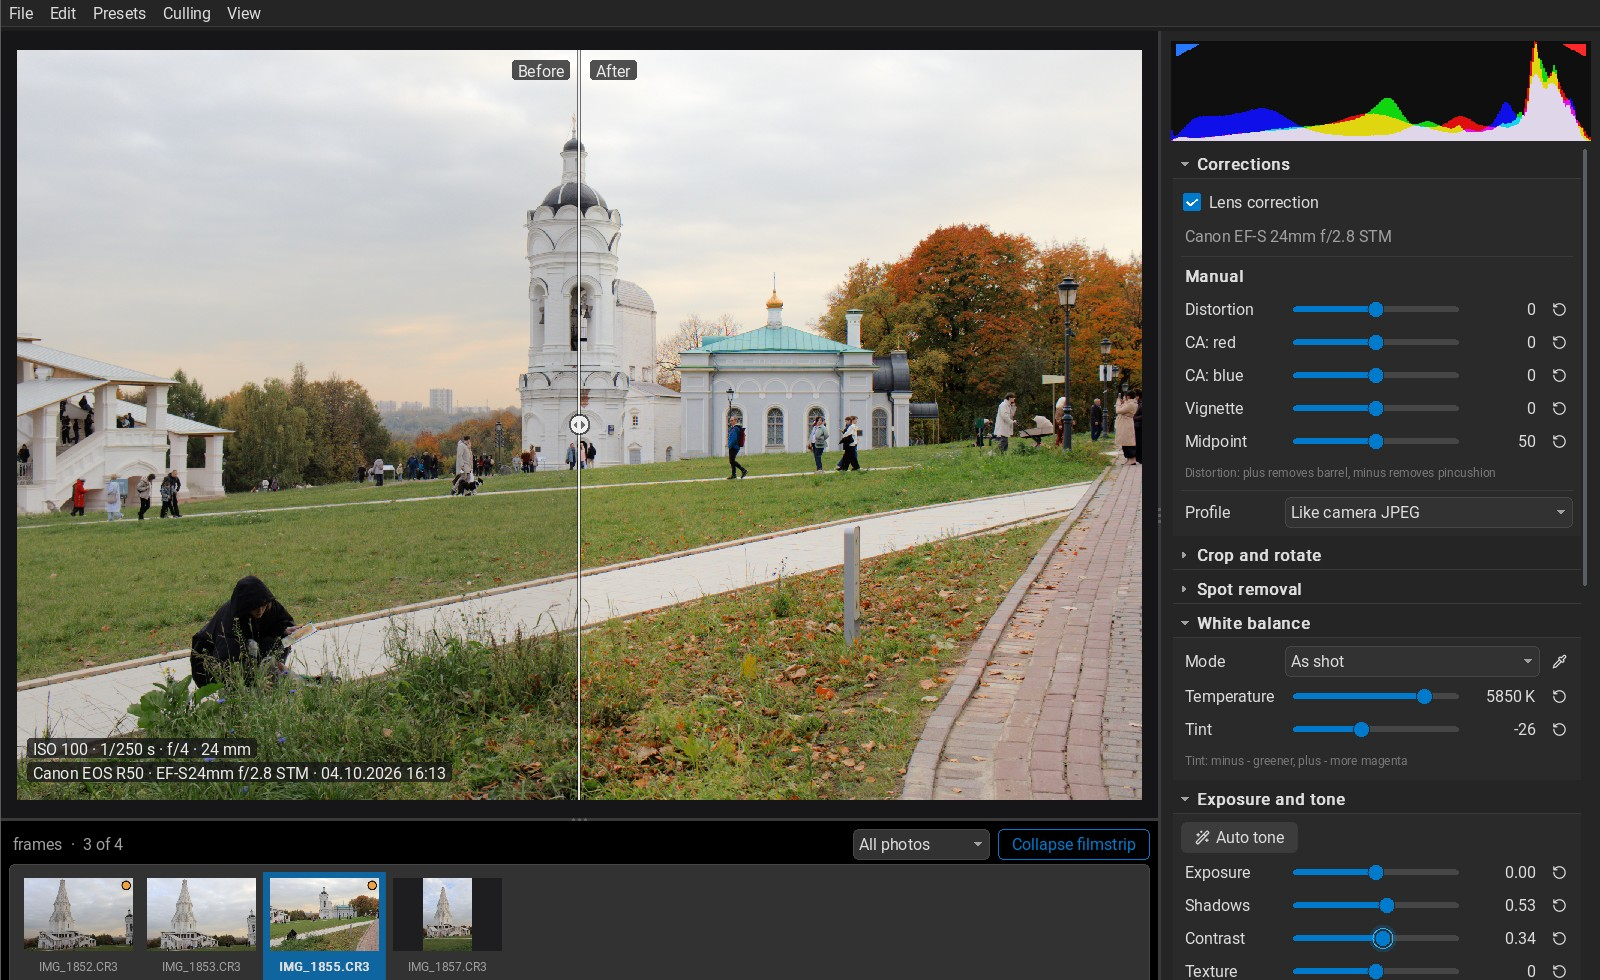
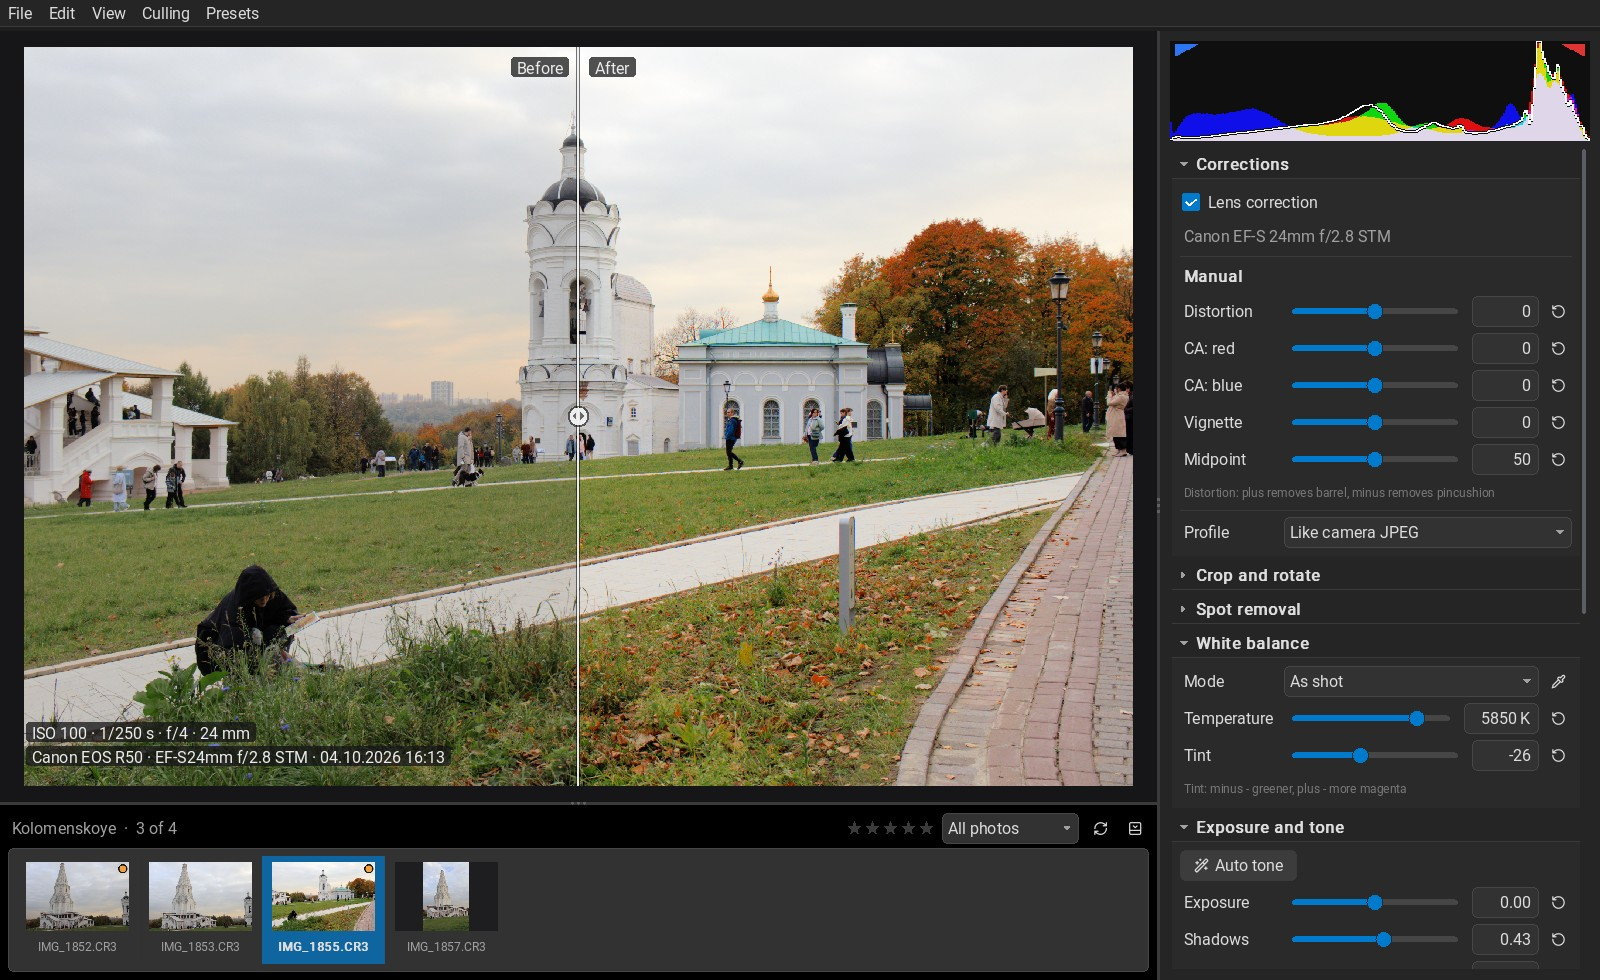
README и скриншоты под 1.7
- V 0.5.2 (7886931) в таблице зависимостей, PROJECT.md - оглавление docs/
- лента: папки с тысячами кадров открываются без задержки (9 языков)
- скриншоты пересняты на сборке 1.7 (те же кадры и вид)

diff --git a/README.pt.md b/README.pt.md
@@ -61,6 +61,7 @@ ferramentas respondem de imediato.
 **Visualização e seleção**
 - Faixa de miniaturas com todos os RAW da pasta; as fotos vizinhas são
   reveladas antecipadamente, por isso passar com ←/→ é instantâneo.
+  As pastas com milhares de fotos abrem sem demora.
 - Classificação de 0 a 5, marcas «escolhida/rejeitada», filtros; as fotos
   rejeitadas vão para a reciclagem do sistema.
 - Antes/depois: manter `\` premido ou vista dividida (Y).
@@ -102,7 +103,7 @@ também deverá funcionar, mas ainda não foi testado.
 
 | Componente | Versão | Linux (Ubuntu / Debian / Mint) | Windows (MSYS2, MINGW64) |
 |---|---|---|---|
-| Compilador V | 0.5.2 (a1c9e93) ou mais recente | a partir do código-fonte (passo 3) | a partir do código-fonte |
+| Compilador V | 0.5.2 (7886931) ou mais recente | a partir do código-fonte (passo 3) | a partir do código-fonte |
 | gcc (com OpenMP) | 13+ | `build-essential` | `mingw-w64-x86_64-gcc` |
 | LibRaw | 0.21+ | `libraw-dev` | `mingw-w64-x86_64-libraw` |
 | lensfun | 0.3.4 | `liblensfun-dev` | `mingw-w64-x86_64-lensfun` |
@@ -224,7 +225,7 @@ dele as DLL necessárias de `C:\msys64\mingw64\bin` (o
 ### Documentação para programadores
 
 O código está comentado em pormenor. As notas de conceção estão em
-russo: [PROJECT.md](PROJECT.md) — módulos e pipeline,
+russo: [PROJECT.md](PROJECT.md) — índice da pasta [docs](docs): módulos, pipeline, interface,
 [ROADMAP.md](ROADMAP.md) — o que está feito e o que está planeado,
 [REQUIREMENTS.md](REQUIREMENTS.md) — o que o programa faz agora.
 

diff --git a/README.fr.md b/README.fr.md
@@ -60,6 +60,7 @@ et tous les outils réagissent instantanément.
 **Visualisation et tri**
 - Bande de vignettes avec tous les RAW du dossier ; les images voisines
   sont développées à l'avance, le passage avec ←/→ est donc instantané.
+  Les dossiers de milliers d'images s'ouvrent sans attente.
 - Notes de 0 à 5, marqueurs « retenue/rejetée », filtres ; les images
   rejetées partent dans la corbeille du système.
 - Avant/après : maintenir `\` ou vue partagée (Y).
@@ -101,7 +102,7 @@ MSYS2 devrait aussi fonctionner, mais n'a pas encore été testée.
 
 | Composant | Version | Linux (Ubuntu / Debian / Mint) | Windows (MSYS2, MINGW64) |
 |---|---|---|---|
-| Compilateur V | 0.5.2 (a1c9e93) ou plus récent | depuis les sources (étape 3) | depuis les sources |
+| Compilateur V | 0.5.2 (7886931) ou plus récent | depuis les sources (étape 3) | depuis les sources |
 | gcc (avec OpenMP) | 13+ | `build-essential` | `mingw-w64-x86_64-gcc` |
 | LibRaw | 0.21+ | `libraw-dev` | `mingw-w64-x86_64-libraw` |
 | lensfun | 0.3.4 | `liblensfun-dev` | `mingw-w64-x86_64-lensfun` |
@@ -223,7 +224,7 @@ comment les rassembler).
 ### Documentation pour les développeurs
 
 Le code est commenté en détail. Les notes de conception sont en russe :
-[PROJECT.md](PROJECT.md) — modules et pipeline,
+[PROJECT.md](PROJECT.md) — sommaire du dossier [docs](docs) : modules, pipeline, interface,
 [ROADMAP.md](ROADMAP.md) — ce qui est fait et ce qui est prévu,
 [REQUIREMENTS.md](REQUIREMENTS.md) — ce que fait le programme
 aujourd'hui.

diff --git a/README.es.md b/README.es.md
@@ -61,6 +61,7 @@ herramientas responden al instante.
 **Visualización y selección**
 - Tira de miniaturas con todos los RAW de la carpeta; las fotos vecinas
   se revelan por adelantado, así que pasar con ←/→ es instantáneo.
+  Las carpetas con miles de fotos se abren sin esperas.
 - Valoraciones de 0 a 5, marcas «elegida/rechazada», filtros; las fotos
   rechazadas van a la papelera del sistema.
 - Antes/después: mantener `\` o vista dividida (Y).
@@ -102,7 +103,7 @@ también debería funcionar, pero aún no se ha probado.
 
 | Componente | Versión | Linux (Ubuntu / Debian / Mint) | Windows (MSYS2, MINGW64) |
 |---|---|---|---|
-| Compilador V | 0.5.2 (a1c9e93) o posterior | desde el código fuente (paso 3) | desde el código fuente |
+| Compilador V | 0.5.2 (7886931) o posterior | desde el código fuente (paso 3) | desde el código fuente |
 | gcc (con OpenMP) | 13+ | `build-essential` | `mingw-w64-x86_64-gcc` |
 | LibRaw | 0.21+ | `libraw-dev` | `mingw-w64-x86_64-libraw` |
 | lensfun | 0.3.4 | `liblensfun-dev` | `mingw-w64-x86_64-lensfun` |
@@ -222,7 +223,7 @@ muestra cómo reunirlas).
 ### Documentación para desarrolladores
 
 El código está comentado en detalle. Las notas de diseño están en ruso:
-[PROJECT.md](PROJECT.md) — módulos y pipeline,
+[PROJECT.md](PROJECT.md) — índice de la carpeta [docs](docs): módulos, pipeline, interfaz,
 [ROADMAP.md](ROADMAP.md) — qué está hecho y qué está previsto,
 [REQUIREMENTS.md](REQUIREMENTS.md) — qué hace el programa ahora.
 

diff --git a/README.nl.md b/README.nl.md
@@ -61,6 +61,7 @@ gereedschappen reageren meteen.
 **Bekijken en selecteren**
 - Filmstrip met alle RAW-bestanden uit de map; naburige foto's worden
   vooraf ontwikkeld, dus bladeren met ←/→ gaat meteen.
+  Mappen met duizenden foto's openen zonder vertraging.
 - Beoordelingen 0–5, vlaggen "gekozen/afgewezen", filters; afgewezen
   foto's gaan naar de prullenbak van het systeem.
 - Voor/na: `\` ingedrukt houden of gesplitste weergave (Y).
@@ -103,7 +104,7 @@ ook moeten werken, maar is nog niet getest.
 
 | Onderdeel | Versie | Linux (Ubuntu / Debian / Mint) | Windows (MSYS2, MINGW64) |
 |---|---|---|---|
-| V-compiler | 0.5.2 (a1c9e93) of nieuwer | vanuit de broncode (stap 3) | vanuit de broncode |
+| V-compiler | 0.5.2 (7886931) of nieuwer | vanuit de broncode (stap 3) | vanuit de broncode |
 | gcc (met OpenMP) | 13+ | `build-essential` | `mingw-w64-x86_64-gcc` |
 | LibRaw | 0.21+ | `libraw-dev` | `mingw-w64-x86_64-libraw` |
 | lensfun | 0.3.4 | `liblensfun-dev` | `mingw-w64-x86_64-lensfun` |
@@ -224,7 +225,7 @@ worden verzameld).
 ### Documentatie voor ontwikkelaars
 
 De code is uitgebreid van commentaar voorzien. De ontwerpnotities zijn
-in het Russisch: [PROJECT.md](PROJECT.md) — modules en pipeline,
+in het Russisch: [PROJECT.md](PROJECT.md) — inhoudsopgave van de map [docs](docs): modules, pipeline, interface,
 [ROADMAP.md](ROADMAP.md) — wat klaar is en wat gepland is,
 [REQUIREMENTS.md](REQUIREMENTS.md) — wat het programma nu doet.
 

diff --git a/README.it.md b/README.it.md
@@ -61,6 +61,7 @@ strumenti rispondono all'istante.
 **Visualizzazione e selezione**
 - Striscia con tutti i file RAW della cartella; gli scatti vicini vengono
   sviluppati in anticipo, quindi lo scorrimento con ←/→ è istantaneo.
+  Le cartelle con migliaia di scatti si aprono senza attese.
 - Valutazioni 0–5, bandierine scelta/scarto, filtri; gli scatti scartati
   finiscono nel cestino di sistema.
 - Prima/dopo: tenere premuto `\` o usare la vista divisa (Y).
@@ -102,7 +103,7 @@ MSYS2 dovrebbe funzionare, ma non è ancora stata provata.
 
 | Componente | Versione | Linux (Ubuntu / Debian / Mint) | Windows (MSYS2, MINGW64) |
 |---|---|---|---|
-| Compilatore V | 0.5.2 (a1c9e93) o successiva | dai sorgenti (passo 3) | dai sorgenti |
+| Compilatore V | 0.5.2 (7886931) o successiva | dai sorgenti (passo 3) | dai sorgenti |
 | gcc (con OpenMP) | 13+ | `build-essential` | `mingw-w64-x86_64-gcc` |
 | LibRaw | 0.21+ | `libraw-dev` | `mingw-w64-x86_64-libraw` |
 | lensfun | 0.3.4 | `liblensfun-dev` | `mingw-w64-x86_64-lensfun` |
@@ -222,7 +223,7 @@ raccoglierle).
 ### Documentazione per sviluppatori
 
 Il codice è commentato in dettaglio. Le note di progetto sono in russo:
-[PROJECT.md](PROJECT.md) — moduli e pipeline,
+[PROJECT.md](PROJECT.md) — indice della cartella [docs](docs): moduli, pipeline, interfaccia,
 [ROADMAP.md](ROADMAP.md) — cosa è fatto e cosa è in programma,
 [REQUIREMENTS.md](REQUIREMENTS.md) — cosa fa il programma adesso.
 

diff --git a/README.de.md b/README.de.md
@@ -60,6 +60,7 @@ Werkzeuge reagieren sofort.
 **Ansicht und Auswahl**
 - Filmstreifen mit allen RAW-Dateien des Ordners; benachbarte Bilder
   werden im Voraus entwickelt, Blättern mit ←/→ ist daher sofort.
+  Ordner mit Tausenden Bildern öffnen sich ohne Verzögerung.
 - Bewertungen 0–5, Markierungen „ausgewählt/abgelehnt“, Filter;
   abgelehnte Bilder wandern in den Papierkorb des Systems.
 - Vorher/Nachher: `\` gedrückt halten oder geteilte Ansicht (Y).
@@ -103,7 +104,7 @@ getestet.
 
 | Komponente | Version | Linux (Ubuntu / Debian / Mint) | Windows (MSYS2, MINGW64) |
 |---|---|---|---|
-| V-Compiler | 0.5.2 (a1c9e93) oder neuer | aus dem Quellcode (Schritt 3) | aus dem Quellcode |
+| V-Compiler | 0.5.2 (7886931) oder neuer | aus dem Quellcode (Schritt 3) | aus dem Quellcode |
 | gcc (mit OpenMP) | 13+ | `build-essential` | `mingw-w64-x86_64-gcc` |
 | LibRaw | 0.21+ | `libraw-dev` | `mingw-w64-x86_64-libraw` |
 | lensfun | 0.3.4 | `liblensfun-dev` | `mingw-w64-x86_64-lensfun` |
@@ -224,7 +225,7 @@ einsammelt, zeigt `tools/windows.sh`).
 ### Entwicklerdokumentation
 
 Der Code ist ausführlich kommentiert. Die Entwurfsnotizen sind auf
-Russisch: [PROJECT.md](PROJECT.md) — Module und Pipeline,
+Russisch: [PROJECT.md](PROJECT.md) — Inhaltsverzeichnis des Ordners [docs](docs): Module, Pipeline, Oberfläche,
 [ROADMAP.md](ROADMAP.md) — Erledigtes und Geplantes,
 [REQUIREMENTS.md](REQUIREMENTS.md) — was das Programm jetzt kann.
 

diff --git a/README.pl.md b/README.pl.md
@@ -59,6 +59,7 @@ a wszystkie narzędzia reagują natychmiast.
 - Taśma miniatur ze wszystkimi plikami RAW z folderu; sąsiednie zdjęcia
   są wywoływane z wyprzedzeniem, więc przełączanie ←/→ jest
   natychmiastowe.
+  Foldery z tysiącami zdjęć otwierają się bez opóźnień.
 - Oceny 0–5, flagi „wybrane/odrzucone”, filtry; odrzucone zdjęcia trafiają
   do systemowego kosza.
 - Przed/po: przytrzymać `\` lub widok dzielony (Y).
@@ -100,7 +101,7 @@ powinno działać, ale nie zostało jeszcze sprawdzone.
 
 | Składnik | Wersja | Linux (Ubuntu / Debian / Mint) | Windows (MSYS2, MINGW64) |
 |---|---|---|---|
-| Kompilator V | 0.5.2 (a1c9e93) lub nowszy | ze źródeł (krok 3) | ze źródeł |
+| Kompilator V | 0.5.2 (7886931) lub nowszy | ze źródeł (krok 3) | ze źródeł |
 | gcc (z OpenMP) | 13+ | `build-essential` | `mingw-w64-x86_64-gcc` |
 | LibRaw | 0.21+ | `libraw-dev` | `mingw-w64-x86_64-libraw` |
 | lensfun | 0.3.4 | `liblensfun-dev` | `mingw-w64-x86_64-lensfun` |
@@ -219,7 +220,7 @@ biblioteki DLL z `C:\msys64\mingw64\bin` (jak je zebrać, pokazuje
 ### Dokumentacja dla programistów
 
 Kod jest szczegółowo skomentowany. Notatki projektowe są po rosyjsku:
-[PROJECT.md](PROJECT.md) — moduły i potok,
+[PROJECT.md](PROJECT.md) — spis treści folderu [docs](docs): moduły, potok, interfejs,
 [ROADMAP.md](ROADMAP.md) — co zrobione i co w planach,
 [REQUIREMENTS.md](REQUIREMENTS.md) — co program robi teraz.
 

diff --git a/README.md b/README.md
@@ -59,6 +59,7 @@ instantly.
 **Viewing and culling**
 - Film strip with all RAW files of the folder; neighbouring shots are
   developed in advance, so flipping with ←/→ is instant.
+  Folders with thousands of shots open without delay.
 - Ratings 0–5, pick/reject flags, filters; rejected shots go to the
   system trash.
 - Before/after: hold `\` or use a split view (Y).
@@ -101,7 +102,7 @@ tested yet.
 
 | Component | Version | Linux (Ubuntu / Debian / Mint) | Windows (MSYS2, MINGW64) |
 |---|---|---|---|
-| V compiler | 0.5.2 (a1c9e93) or newer | from source (step 3) | from source |
+| V compiler | 0.5.2 (7886931) or newer | from source (step 3) | from source |
 | gcc (with OpenMP) | 13+ | `build-essential` | `mingw-w64-x86_64-gcc` |
 | LibRaw | 0.21+ | `libraw-dev` | `mingw-w64-x86_64-libraw` |
 | lensfun | 0.3.4 | `liblensfun-dev` | `mingw-w64-x86_64-lensfun` |
@@ -219,7 +220,7 @@ shows how they are collected).
 ### Developer documentation
 
 The code is commented in detail. Design notes are in Russian:
-[PROJECT.md](PROJECT.md) — how the modules and the pipeline work,
+[PROJECT.md](PROJECT.md) — contents of the [docs](docs) folder: modules, pipeline, interface,
 [ROADMAP.md](ROADMAP.md) — what is done and what is planned,
 [REQUIREMENTS.md](REQUIREMENTS.md) — what the program does now.
 
